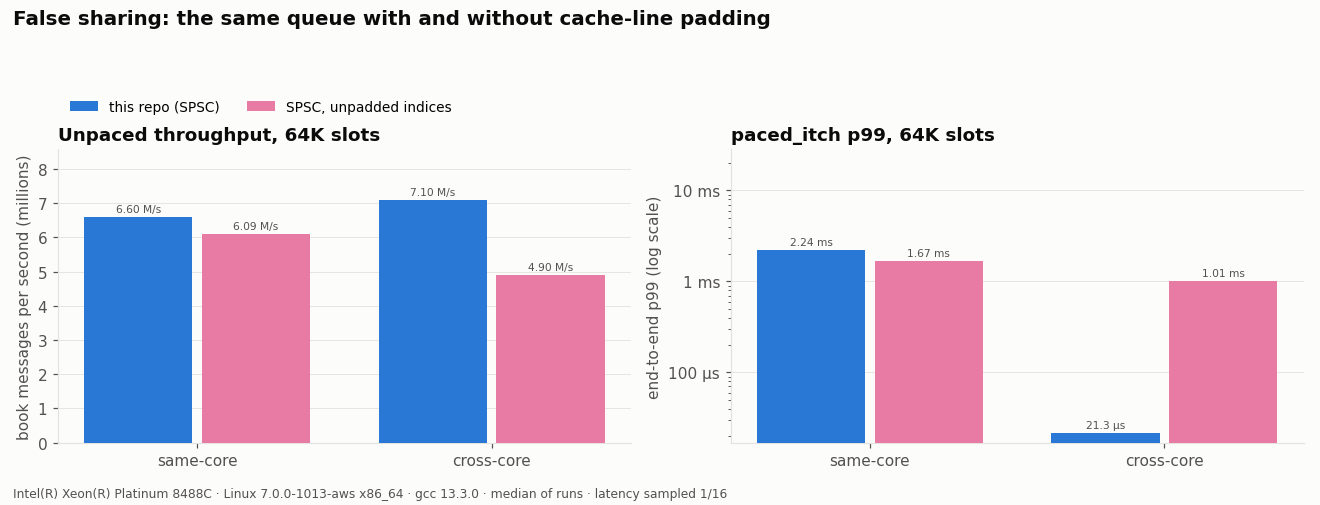
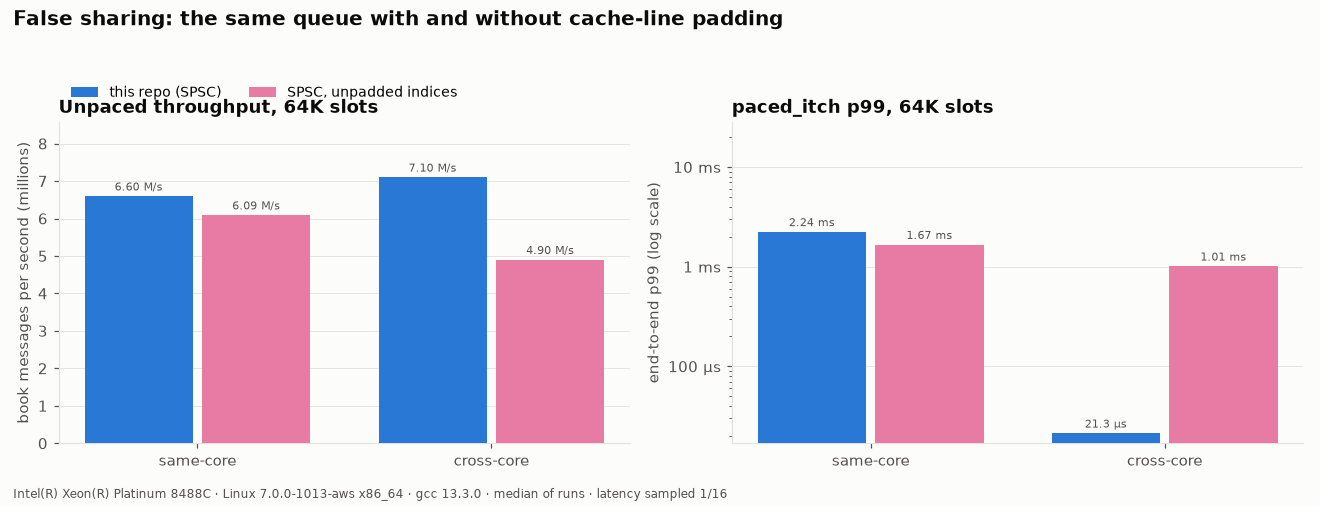
Stage B write-up: README section, design sections 11-14, charts
- README: "Stage B: lock-free vs the alternatives" below the Stage A results:
  correctness evidence, headline table (cross-core, 64K), findings, and the
  five comparison charts; testing and layout tables updated
- DESIGN 11 memory ordering, 12 false sharing (measured: -31% throughput,
  47x p99 across cores), 13 the deliberate bug (TSan; M4 millions corrupted;
  x86 0 errors in 1.09B messages, identical machine code), 14 design
  comparison with Rigtorp and Boost, including the unexplained 17% gap
- plot_matrix: tighter legend spacing; charts regenerated

diff --git a/scripts/plot_matrix.py b/scripts/plot_matrix.py
@@ -176,11 +176,11 @@ def main():
         axes[1].yaxis.set_major_formatter(FuncFormatter(fmt_ns))
         axes[1].set_ylabel("end-to-end p99 (log scale)")
         axes[1].set_title(f"{lat_load} p99, {fmt_cap(cap)} slots")
-        axes[0].legend(loc="lower left", bbox_to_anchor=(0, 1.08), ncol=2)
+        axes[0].legend(loc="lower left", bbox_to_anchor=(0, 1.03), ncol=2)
         fig.suptitle("False sharing: the same queue with and without cache-line padding", x=0.01, ha="left",
                      fontsize=13, fontweight="bold", color=INK)
         caption(fig, host)
-        fig.tight_layout(rect=(0, 0.04, 1, 0.93))
+        fig.tight_layout(rect=(0, 0.04, 1, 0.95))
         fig.savefig(args.out / "alignment.png")
         plt.close(fig)
 
@@ -194,10 +194,10 @@ def main():
         ax.set_title(f"{lat_load} {name}, {fmt_cap(cap)} slots")
         ax.set_xticklabels([QLABEL[q].split(" (")[0].replace("boost::lockfree::", "boost ") for q in queues], fontsize=8)
     axes[0].set_ylabel("end-to-end latency (log scale)")
-    axes[0].legend(loc="lower left", bbox_to_anchor=(0, 1.08), ncol=len(places))
+    axes[0].legend(loc="lower left", bbox_to_anchor=(0, 1.03), ncol=len(places))
     fig.suptitle("Thread placement: where the two threads run", x=0.01, ha="left", fontsize=13, fontweight="bold", color=INK)
     caption(fig, host)
-    fig.tight_layout(rect=(0, 0.04, 1, 0.93))
+    fig.tight_layout(rect=(0, 0.04, 1, 0.95))
     fig.savefig(args.out / "placement.png")
     plt.close(fig)
 
@@ -223,10 +223,10 @@ def main():
     axes[1].yaxis.set_major_formatter(FuncFormatter(fmt_ns))
     axes[1].set_ylabel("end-to-end p99 (log scale)")
     axes[1].set_title(f"{lat_load} p99, {place}")
-    axes[0].legend(loc="lower left", bbox_to_anchor=(0, 1.08), ncol=3)
+    axes[0].legend(loc="lower left", bbox_to_anchor=(0, 1.03), ncol=3)
     fig.suptitle("Ring capacity: where a bigger buffer stops helping", x=0.01, ha="left", fontsize=13, fontweight="bold", color=INK)
     caption(fig, host)
-    fig.tight_layout(rect=(0, 0.04, 1, 0.9))
+    fig.tight_layout(rect=(0, 0.04, 1, 0.95))
     fig.savefig(args.out / "capacity.png")
     plt.close(fig)
     for n in ["queue_percentiles", "queue_cdf", "alignment", "placement", "capacity"]:

diff --git a/docs/DESIGN.md b/docs/DESIGN.md
@@ -271,3 +271,189 @@ with no screen recorder involved.
    turn this replay tool into a live feed handler.
 7. **Per-stock sharding** across several book threads (locate mod N), one ring
    each, once a single book thread is the bottleneck.
+
+---
+
+# Stage B: proving the lock-free pipeline is faster *and* correct
+
+## 11. Memory ordering in the SPSC ring
+
+The ring needs exactly one ordering guarantee: **when the consumer sees the
+new head index, it must also see the slot the producer wrote before
+advancing it.** Everything else can be relaxed.
+
+```
+producer                                   consumer
+slots_[h & mask] = msg;        (plain)     t == head_cache_ ? head_cache_ = head_.load(acquire)
+head_.store(h + 1, release);   ──────────► out = slots_[t & mask];   (plain)
+                                            tail_.store(t + 1, release) ──► producer's tail_.load(acquire)
+```
+
+* `store(release)` on the index: no earlier write (the slot) may be
+  reordered after it.
+* `load(acquire)` on the other side: no later read (the slot) may be
+  reordered before it. A release store that is read by an acquire load
+  creates a *happens-before* edge, so the slot write is visible.
+* The same pair runs the other way on `tail_`: the producer must not
+  overwrite a slot until the consumer has finished reading it.
+* Each side reads its *own* index with `relaxed`, because only it writes it.
+
+What it costs: on x86-64 a release store and an acquire load are ordinary
+`mov`s, because x86 (TSO) never reorders a store with an earlier store or a
+load with a later load. On ARMv8 they are `stlr` and `ldapr`, real
+instructions with real ordering cost. That asymmetry is what §13 exploits.
+
+## 12. False sharing
+
+`spsc_unaligned` is the same queue with `kPadded = false`. The producer's
+index, its cached copy of the tail, the consumer's index and its cached copy
+of the head then share one or two cache lines. Every producer store to `head_`
+invalidates the line the consumer is polling for `tail_`, and vice versa,
+even though the two never touch each other's variables. This is *false*
+sharing, because the sharing is an accident of layout. Padding each field to
+its own line (128 B on Apple Silicon, 64 B elsewhere) removes it.
+
+Measured on the pinned Xeon, 64K slots
+([chart](../docs/matrix/c7i.2xlarge/alignment.png)):
+
+| Placement | Padded | Unpadded | |
+|---|---:|---:|---|
+| cross-core, unpaced throughput | 7.10 M/s | 4.90 M/s | **−31%** |
+| cross-core, paced p99 | 21.3 µs | 1.01 ms | **47×** |
+| same-core, unpaced throughput | 6.60 M/s | 6.09 M/s | −8% |
+
+On the two hyperthreads of one core, the "other core" shares the same L1, so
+an invalidation costs almost nothing and the penalty nearly disappears. False
+sharing is a cross-core cost, which is why it never shows up in a
+single-machine, unpinned benchmark that happens to schedule both threads
+close together.
+
+## 13. The deliberate bug
+
+**The change:** one line, behind `-DFH_INJECT_ORDERING_BUG=ON`. The producer
+publishes the head with `memory_order_relaxed` instead of `release`
+(`SpscQueue::publish_head`). Everything else is identical.
+
+**1. ThreadSanitizer reports it immediately**
+([report](../results/bug_experiment/tsan_report.txt)): *"data race … Read of
+size 8 … by thread T1"* (the consumer reading a slot) against *"Previous write
+of size 8 … by main thread"* (the producer writing that slot). Without the
+release/acquire pair there is no happens-before edge between them, so under
+the C++ memory model the program has a data race and undefined behaviour.
+CI rebuilds the bug on every push, and the `deliberate-bug` job passes only
+if TSan still catches it.
+
+**2. On ARM it corrupts real data.** A release build with the bug on an
+Apple M4, through `queue_stress`, which checks every field of every 48-byte
+message ([log](../results/bug_experiment/runtime_arm64_m4.txt)):
+
+| Ring | Messages | Out of sequence | Corrupted payload |
+|---:|---:|---:|---:|
+| 4 slots | 2.78 billion | 2,572,990 | 1,338,995 |
+| 64 slots | 14.8 billion | 2,933,300 | 3,324,560 |
+| 1024 slots | 17.4 billion | 2,271,726 | 2,287,864 |
+| correct build, 4 and 64 slots (control) | 9.6 billion | **0** | **0** |
+
+The buggy build was also *faster* (246 against 130 M ops/s at 64 slots),
+because `str` skips the ordering work that `stlr` does. A benchmark alone
+would have rewarded the bug.
+
+**3. On x86 it cannot show up with this compiler.** The generated code
+([asm](../results/bug_experiment/asm/)) for one `try_push`:
+
+| | correct (`release`) | bug (`relaxed`) |
+|---|---|---|
+| ARM64 | slot: `stp q1,q2,[x8,#16]`; `str q0,[x8]`; then index: **`stlr x9,[x0]`** | the same slot stores, then **`str x9,[x0]`** |
+| x86-64 | slot: three `movaps`; then index: `movq %rax,(%rdi)` | **identical, byte for byte** |
+
+In both ARM builds the compiler keeps the slot stores *before* the index
+store. The reordering that corrupted millions of messages is done by the
+CPU: ARM lets a later store become visible to another core before an
+earlier one, and `stlr` is what forbids that. x86 never reorders
+store-store, so a release store *is* a plain store, and the machine code does
+not change. The bug is still real on x86. The C++ standard allows the
+compiler to sink the slot write below a relaxed store, and a different
+compiler version, optimisation level or surrounding code could do so. Only a
+tool that checks the *language* rules (TSan) finds it reliably.
+
+**4. The x86 runtime run confirms it.** The same buggy release build, pinned
+on the Xeon ([log](../results/bug_experiment/runtime_x86_c7i.2xlarge.txt)):
+4, 64 and 1024 slots, 60 s each, **1.09 billion messages, 0 sequence errors,
+0 payload errors.** The identical source corrupts millions of messages on ARM
+and none on x86.
+
+**The lesson:** a test suite that passes on x86 says nothing about memory
+ordering. Run the stress tests on ARM, run TSan, and treat every
+`memory_order` argument as a claim that needs a reason.
+
+## 14. Design comparison: Rigtorp and Boost
+
+I read both implementations only after this repo's ring had been designed
+and benchmarked in Stage A, so mine could not drift toward theirs. Each sits
+behind a thin adapter ([`industry_queues.hpp`](../include/fh/queue/industry_queues.hpp))
+that uses only its public API and waits with the same `cpu_relax()` spin.
+
+| | This repo | Rigtorp SPSCQueue (`1053918`) | boost::lockfree::spsc_queue (1.83 / 1.92) |
+|---|---|---|---|
+| Capacity | compile-time power of two | runtime, any size | compile-time (as used here) |
+| Index wrap | `i & mask` on 64-bit indices that never wrap | compare with capacity, reset to 0 | `& mask` only if *N+1* is a power of two, else a subtract loop |
+| Full vs empty | `head − tail == N`, all N slots usable | one slack slot (N+1 allocated) | one slack slot (N+1 allocated) |
+| Cached copy of the other index | yes, refreshed only when it looks full or empty | yes, same idea | **no**: every push loads `read_index_`, every pop loads `write_index_` |
+| Index padding | each index and each cache on its own line; 128 B on Apple Silicon | each on its own line; `hardware_destructive_interference_size`, else 64 B | the two indices padded to a per-architecture size (64 / 128 / 256 B) |
+| Slot array | cache-line aligned, not padded at the ends | padded with `kPadding` slots at both ends against neighbouring heap data | stored inside the queue object (compile-time capacity) |
+| Read API | copy out (`try_pop(T&)`) | zero-copy (`front()` then `pop()`) | copy out via a functor (`consume_one`) |
+| Ordering | relaxed own / acquire other / release publish | identical | identical |
+| Extras | optional index batching (`set_batch`) | allocator support, `emplace` | bulk push/pop, iterator ranges |
+
+**Why Boost is slower across cores.** Without a cached index, every
+operation reads the other core's cache line. While the producer is writing
+`write_index_` once per message, the consumer reads it once per message, so
+the line goes back and forth between the cores on almost every operation.
+On one core, where the "other core" is the sibling hyperthread on the same
+L1, that costs little, and Boost matches the others (6.56 M/s same-core). Across
+cores it drops to 5.60 M/s, and in the paced bursts its p99 is 46× this
+repo's (983 µs against 21.3 µs). There is also a smaller, avoidable cost here:
+`capacity<65536>` allocates 65537 slots, which is not a power of two, so
+`next_index` takes the subtract-loop path instead of a mask.
+`capacity<65535>` would give Boost its fast path. The matrix keeps the same
+nominal capacity for all four queues, as the comparison rules require.
+
+**Rigtorp against this repo: almost the same design, and a result I have not
+fully explained.** The memory ordering is identical, both cache the other
+index, and both pad each index to its own line. Across cores this repo's ring
+is 17% faster in every run (7.09–7.12 against 6.06–6.08 M/s) and holds its
+tail far better in a 1K ring under burst (two runs of three at 17–32 µs
+against Rigtorp's 680–790 µs). On one core Rigtorp is slightly *ahead*
+(6.73 against 6.60 M/s at 64K). Since the gap appears only when the
+indices cross cores, it is a cache-coherence effect rather than an
+instruction-count one. The differences that can affect coherence are:
+
+1. **Index representation.** Rigtorp's indices wrap at capacity, mine are
+   64-bit counters that never wrap. Both publish one store per operation, so
+   this should not change traffic, but it changes the full test (one slack
+   slot against none) and so how often a full ring forces a refresh.
+2. **Slot array placement.** Mine starts on a cache-line boundary; Rigtorp's
+   starts `kPadding` slots into a `std::allocator` block. With 48-byte
+   slots, that shifts which slots share a line, which matters when the ring
+   is full and the producer writes the slot just behind the one the consumer
+   is reading.
+3. **Producer reads of its own index.** Rigtorp reloads `writeIdx_` (the
+   shared line the consumer polls) at the start of every push; mine reads a
+   private copy and only *stores* to the shared line.
+
+I have not isolated which of these accounts for the 17%. The measurement
+that would is `perf c2c` (cache-to-cache transfer counts per cache line),
+which needs precise load-latency sampling (Intel PEBS). On the
+`c7i.2xlarge` VM even basic cache events were unavailable: `perf stat` reported
+`LLC-load-misses` as `<not supported>` and `cache-misses` as 0 in the Stage A
+diagnosis run. Bare metal exposes the full PMU, so the 2-socket metal run is
+the place to take it. The honest
+conclusion today: on a Xeon, across cores, this ring is faster than Rigtorp's
+for this workload, by a margin that is consistent across runs, and the
+mechanism is not yet proven.
+
+**What I would take from them.** Rigtorp's end padding of the slot array is
+a real improvement this ring lacks: neighbouring heap data can share the
+first or last slot's cache line. Its zero-copy `front()`/`pop()` would save a
+48-byte copy per message. Boost's bulk `push(begin, end)` is the natural API
+for the index batching measured in §10 and Stage A's diagnosis.

diff --git a/README.md b/README.md
@@ -187,6 +187,94 @@ costs about $0.50 per run. One-time AWS setup:
 [docs/AWS_BENCHMARK.md](docs/AWS_BENCHMARK.md).
 
 
+## Stage B: lock-free vs the alternatives
+
+The same pipeline, with the queue swapped by one template parameter
+(`run_pipeline<Queue>`), against three alternatives:
+
+| Queue | What it is | Version |
+|---|---|---|
+| `spsc` | this repo's ring ([`spsc_queue.hpp`](include/fh/queue/spsc_queue.hpp)) | this repo |
+| `rigtorp` | Erik Rigtorp's SPSCQueue, vendored unmodified | [`1053918`](third_party/rigtorp/VERSION) |
+| `boost` | `boost::lockfree::spsc_queue`, compile-time capacity | 1.83 (Ubuntu), 1.92 (Mac) |
+| `mutex` | `std::mutex` + `std::condition_variable` baseline ([`mutex_queue.hpp`](include/fh/queue/mutex_queue.hpp)) | this repo |
+| `spsc_unaligned` | this repo's ring with **unpadded** indices, to measure false sharing | this repo |
+
+Every queue gets the same 48-byte message, capacity, pinning, compiler flags,
+spin-wait policy and 1-in-16 latency sampling.
+[Full matrix: 60 cells](results/matrix/c7i.2xlarge/TABLE.md): 5 queues × 1K /
+64K / 1M slots × same-core / cross-core × full-speed / ITCH-paced, on the
+pinned `c7i.2xlarge`, median of 3 runs each.
+
+**Correctness first: a fast queue that fails does not count.**
+
+| Evidence | Result |
+|---|---|
+| Stress suite ([`test_queue_stress.cpp`](tests/test_queue_stress.cpp)): sequence must be exactly +1, random-delay interleavings, 4-slot wraparound, 48-byte payload integrity, full/empty, book hash vs golden at every checkpoint | ✅ all 5 queues, and clean under ThreadSanitizer, AddressSanitizer and UBSan, each its own CI build |
+| Book differential on real data, 04:00–12:00, pinned ([logs](results/matrix/c7i.2xlarge/logs)) | ✅ PASS for all 5 queues |
+| Long-run stress ([`queue_stress`](bench/queue_stress.cpp), every field of every message checked) | ✅ 0 errors: [Linux](results/stress/linux_c7i.2xlarge.txt), [M4, billions per queue](results/stress/long_run_m4.txt) |
+| Deliberate bug: one `release` store made `relaxed` ([details](docs/DESIGN.md#13-the-deliberate-bug)) | ThreadSanitizer reports it (and CI checks it does, every push). **Apple M4: millions of corrupted messages. x86: 0**, and the machine code is byte-identical |
+
+**Headline: cross-core, 64K slots** (pinned Xeon Platinum 8488C):
+
+| Queue | Unpaced throughput | Paced at the open: p50 | p90 | p99 | p99.9 | max |
+|---|---:|---:|---:|---:|---:|---:|
+| **spsc (this repo)** | **7.10 M msgs/s** | **706 ns** | 4.59 µs | 21.3 µs | 396 µs | 455 µs |
+| rigtorp | 6.08 M msgs/s | 773 ns | 4.48 µs | **19.2 µs** | **355 µs** | **419 µs** |
+| boost | 5.60 M msgs/s | 800 ns | 10.2 µs | 983 µs | 1.28 ms | 1.30 ms |
+| spsc, unpadded | 4.90 M msgs/s | 826 ns | 10.5 µs | 1.01 ms | 1.28 ms | 1.29 ms |
+| mutex | 2.23 M msgs/s | 8.11 µs | 192 ms | 273 ms | 276 ms | 276 ms |
+
+"Paced" replays the ITCH timestamps of 09:30:00–09:33:00 at 10× real time,
+which includes the opening burst; the messages before 09:30 build the book
+untimed.
+
+**What the matrix shows:**
+
+* **The tail gap dwarfs the median gap.** The mutex queue's p50 is 11× the
+  lock-free ones, but its p99 is about 13,000×. Every handoff takes the
+  lock, and a blocked side sleeps in the kernel and must be woken, so during
+  the opening burst it falls 200+ ms behind.
+* **This repo's ring has the highest throughput across cores**: +17% over
+  Rigtorp (7.09–7.12 against 6.06–6.08 M/s in every run), +27% over Boost,
+  3.2× the mutex. On paced latency at 64K it ties Rigtorp (p99 ranges
+  19.6–23.9 against 17.5–21.3 µs).
+* **Boost's gap comes from coherence traffic.** It keeps no cached copy of the
+  other side's index, so every push and pop reads the other core's cache
+  line. On one core, where that is cheap, it matches the others (6.56 M/s);
+  across cores it drops to 5.60 M/s and its p99 rises to about 1 ms.
+* **False sharing costs 31% of throughput** and multiplies p99 by 47 (21 µs
+  → 1.01 ms): `spsc_unaligned` is the same code with the four indices packed
+  onto shared lines. On one core, where the "other core" shares the L1, the
+  penalty almost vanishes (6.60 against 6.09 M/s).
+* **Same core is cheaper but worse.** Two hyperthreads of one core
+  communicate through a shared L1, giving the best p50 (466 ns for every
+  lock-free queue). But they also compete for that core's execution units,
+  so paced p99 is about 2 ms against about 20 µs on separate cores.
+* **Capacity does not buy throughput** (the book is the bottleneck: 7.08–7.16
+  M/s from 1K to 1M slots). It buys burst absorption: at 1K slots the opening
+  burst fills every ring, and Rigtorp's p99 rises to 737 µs and Boost's to
+  3.3 ms. This repo's ring held 16.6–31.6 µs in two of three runs (one run:
+  1.72 ms). Past 64K there is little further gain.
+* Cross-socket placement needs a 2-socket host; that run is pending.
+
+Why each queue behaves as it does, from reading their code:
+[DESIGN.md §14](docs/DESIGN.md#14-design-comparison-rigtorp-and-boost).
+
+![Percentiles: four queues](docs/matrix/c7i.2xlarge/queue_percentiles.png)
+![Latency CDF: four queues](docs/matrix/c7i.2xlarge/queue_cdf.png)
+![False sharing: padded vs unpadded indices](docs/matrix/c7i.2xlarge/alignment.png)
+![Thread placement](docs/matrix/c7i.2xlarge/placement.png)
+![Ring capacity](docs/matrix/c7i.2xlarge/capacity.png)
+
+Rebuild everything with `bench/run_matrix.sh data/12302019.NASDAQ_ITCH50`, or
+on EC2 with the [Linux benchmark workflow](.github/workflows/benchmark.yml)
+in `mode=matrix`. Each cell writes a `run_stats.csv` with `queue`,
+`queue_version`, `capacity` and `placement` columns, and
+[`matrix_table.py`](scripts/matrix_table.py) and
+[`plot_matrix.py`](scripts/plot_matrix.py) rebuild the table and the five
+charts from them.
+
 ## Architecture
 
 ```mermaid
@@ -268,17 +356,20 @@ existing CSVs, run `python3 scripts/plot_results.py`.
 | [`test_golden_compare`](tests/test_golden_compare.cpp) | fast book equals golden after every message; the two-thread pipeline (fast and golden books, paced and unpaced, view on) produces the identical per-message hash chain |
 | Invariants | each level's shares and order count equal the sum of its orders, levels are strictly sorted, no order is in two places |
 | [`test_histogram`](tests/test_histogram.cpp), [`test_seqlock`](tests/test_seqlock.cpp) | bucket math and error bound; no torn snapshot across 3M concurrent writes |
+| [`test_queue_stress`](tests/test_queue_stress.cpp) | the same 8 stress tests for all five queues (Stage B): exact +1 sequence, random-delay interleavings, 4-slot wraparound, payload integrity, full/empty, book hash vs golden at every checkpoint |
 
 CI ([`.github/workflows/ci.yml`](.github/workflows/ci.yml)) runs on every
 push. It builds with gcc and clang on Linux and clang on macOS, in Release and
-Debug, and runs ASan+UBSan and TSan builds. An end-to-end job generates a
+Debug, and runs AddressSanitizer, UndefinedBehaviorSanitizer and
+ThreadSanitizer as three separate builds. A fourth job builds the deliberate
+ordering bug and passes only if ThreadSanitizer reports it. An end-to-end job generates a
 synthetic feed and runs count → golden → verify → bench → charts.
 
 ## Repository layout
 
 ```
 include/fh/parser/   endian helpers, message struct, parser, mmap wrapper
-include/fh/queue/    SPSC ring buffer
+include/fh/queue/    SPSC ring (+ unpadded variant), mutex queue, Rigtorp/Boost adapters, queue selection
 include/fh/book/     golden book, fast book, order map, hashing, comparison
 include/fh/stats/    clock, histogram, report/CSV
 include/fh/view/     seqlock, snapshot, live view
@@ -289,6 +380,8 @@ tests/               GoogleTest suites
 bench/               micro-benchmarks, one-command benchmark script
 scripts/             plot_results.py (charts), make_gif.py (README GIF), summarize_results.py
 bench/aws/           one-time AWS setup for the EC2 benchmark workflow
+bench/run_matrix.sh  Stage B queue matrix; bench/queue_stress.cpp long-run stress tool
+third_party/rigtorp/ vendored SPSCQueue.h (MIT), with VERSION
 docs/                charts, GIF, design document
 results/             CSV output and logs from the runs shown above
 ```
